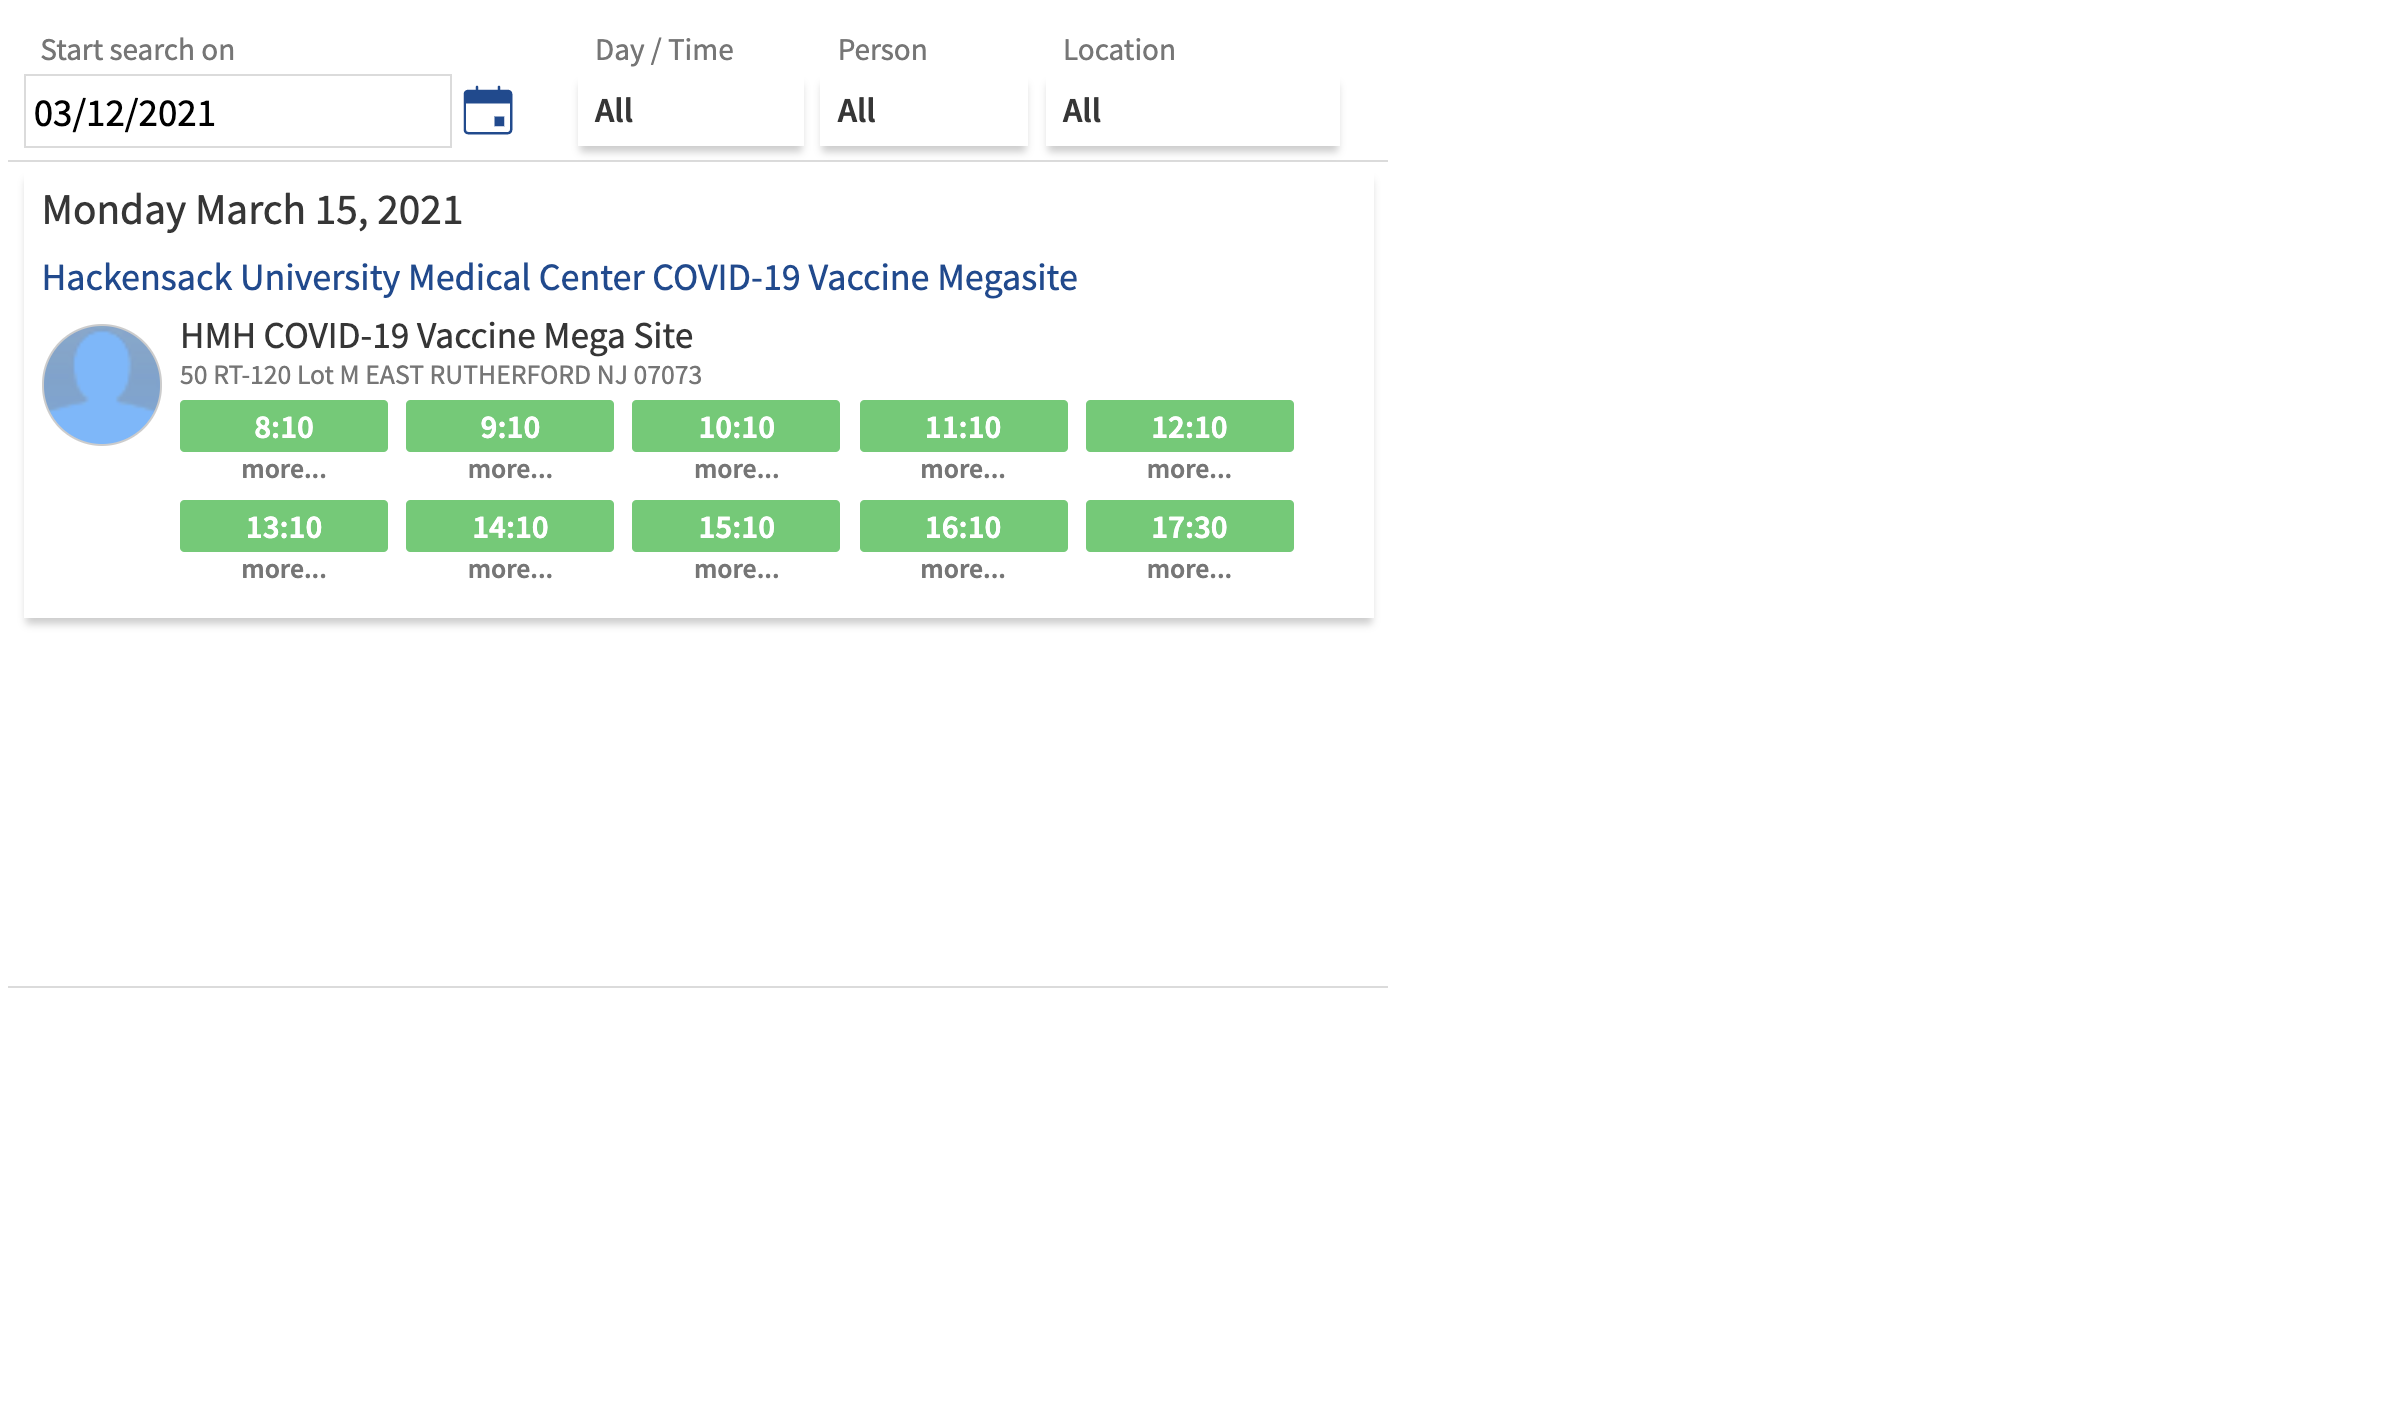
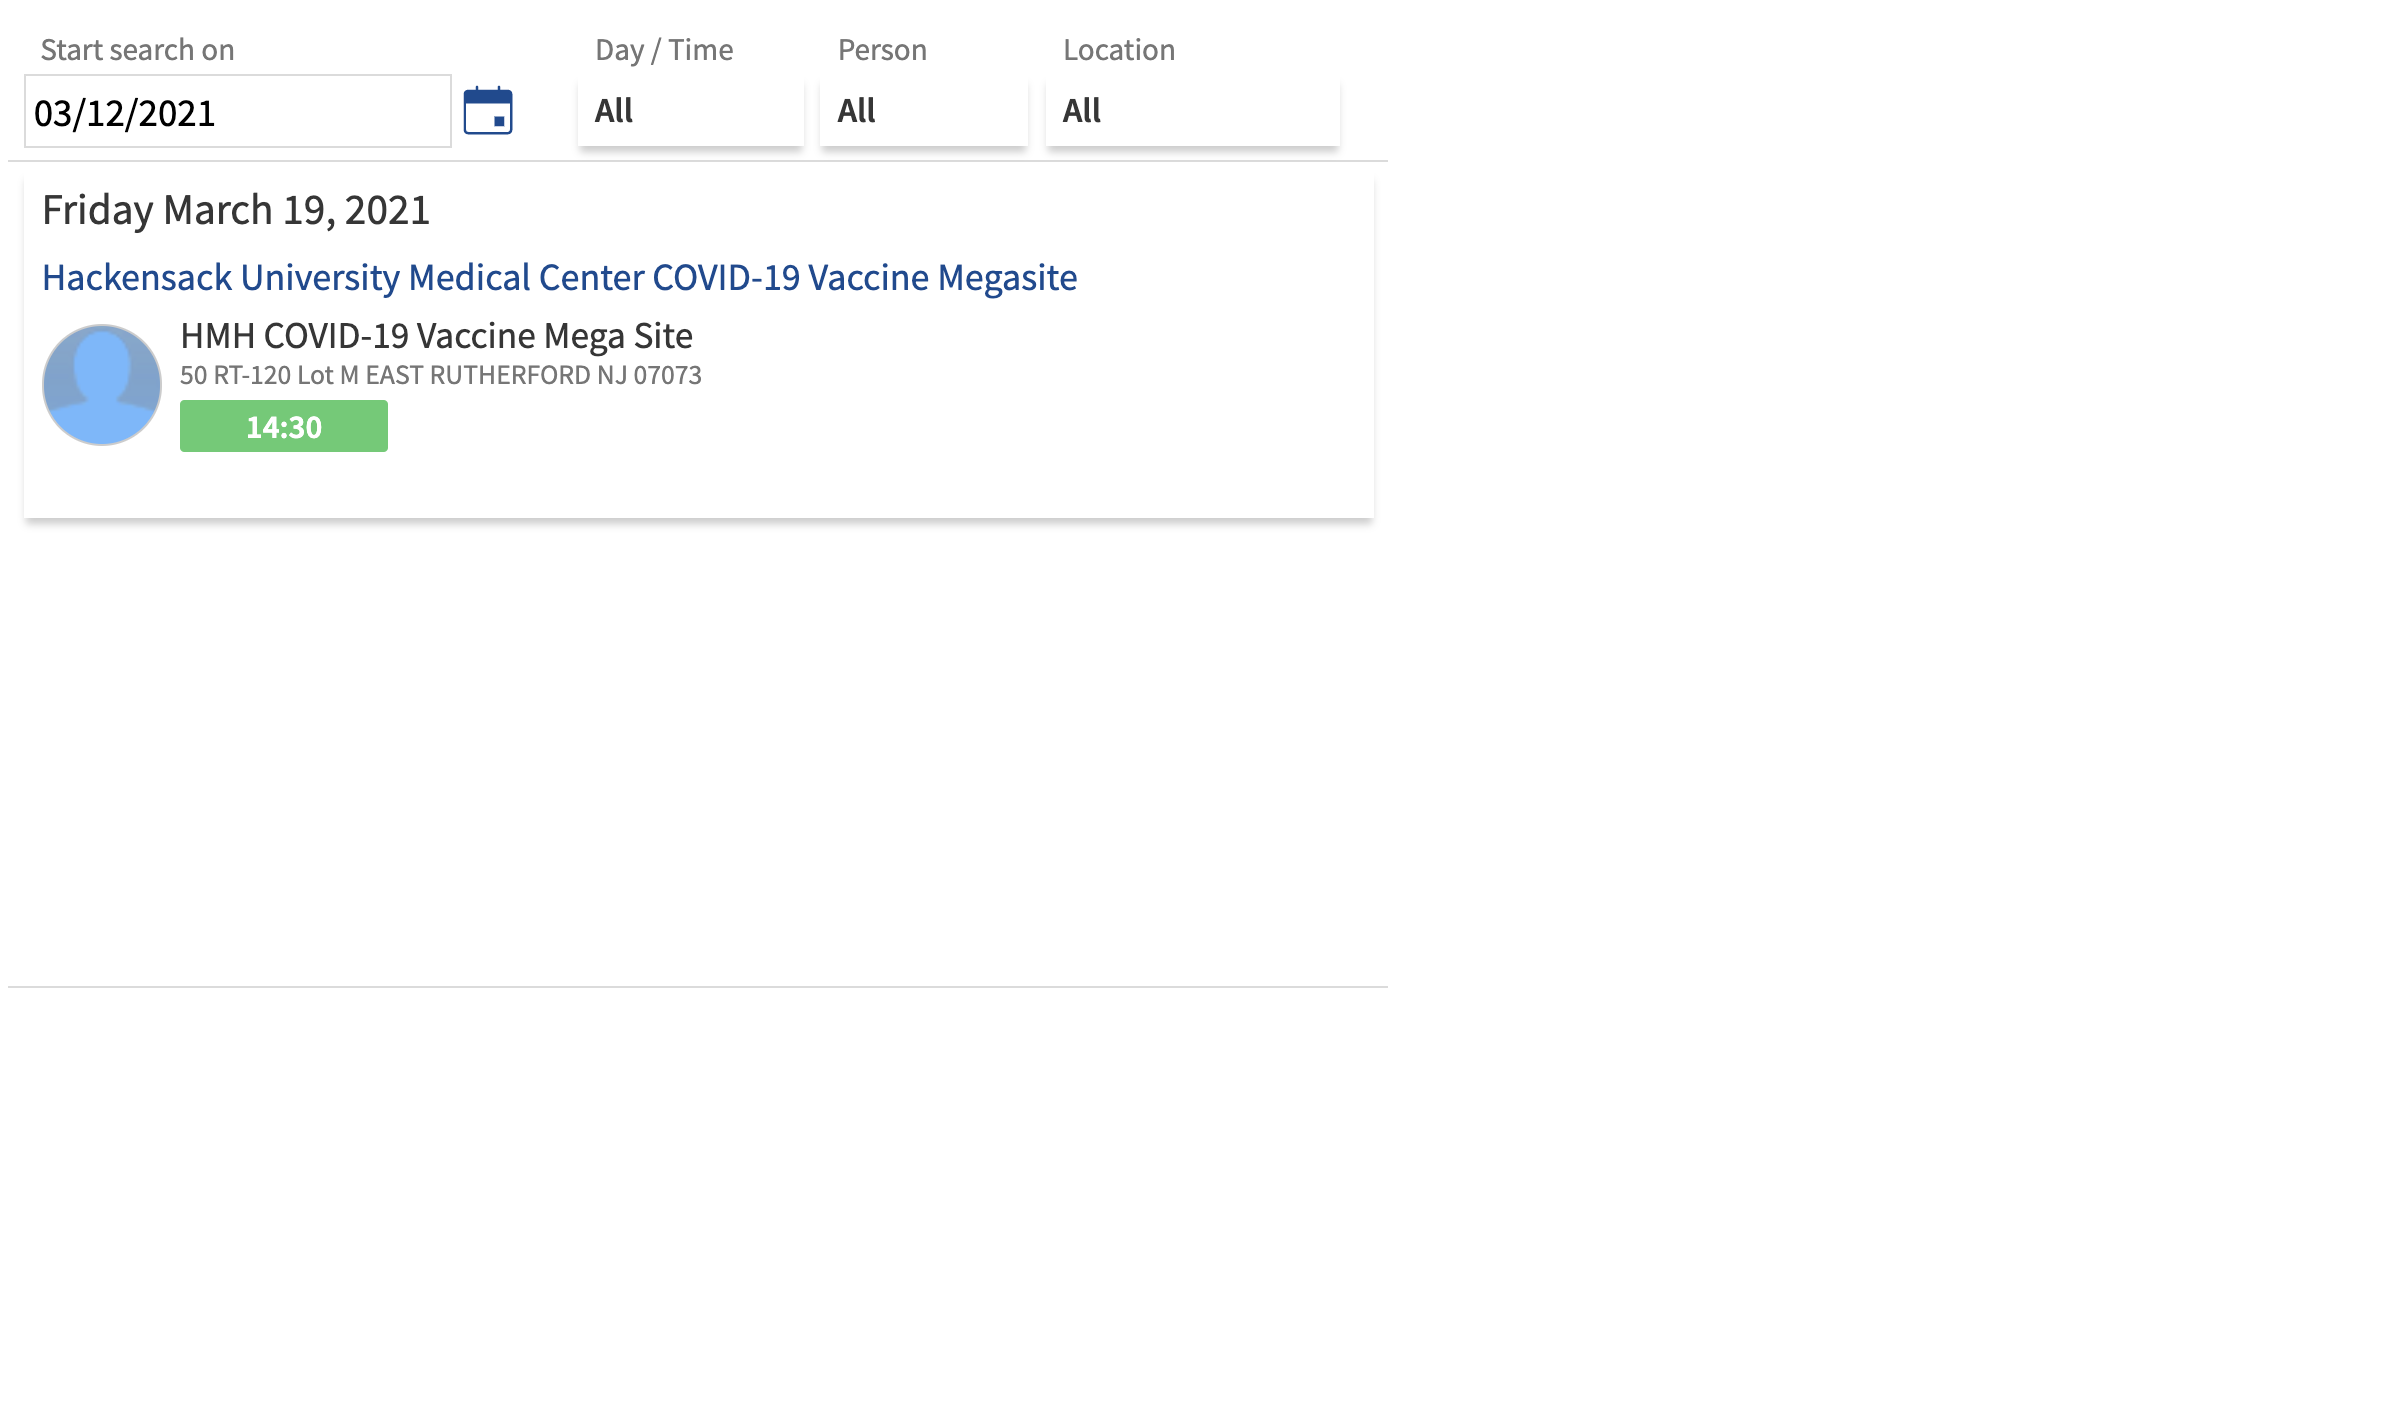
timer fix

Changed region(s): [[0.0312, 0.2797, 0.5625, 0.404], [0.0312, 0.435, 0.5625, 0.4661], [0.0, 0.1243, 0.1875, 0.1554]]

diff --git a/testBot.py b/testBot.py
@@ -62,12 +62,13 @@ while True:
                 status = "Hackensack Meridian: Portal is open at this link https://mychart.hmhn.org/MyChart/SignupAndSchedule/EmbeddedSchedule?dept=1110101656,1110301124&vt=112916"
                 imagePath = "Screenshots/HMHNcapture.png"
 
-                # Only tweet again after 8 min
-                print("Appointment found.")
-                api.update_with_media(imagePath, status)
-                HMHN_Timer = time.time()
+                if time.time() - HMHN_Timer > 200 or HMHN_Timer == 0:
 
-                break
+                    print("Appointment found.")
+                    api.update_with_media(imagePath, status)
+                    HMHN_Timer = time.time()
+
+                continue
         except:
             continue
 
